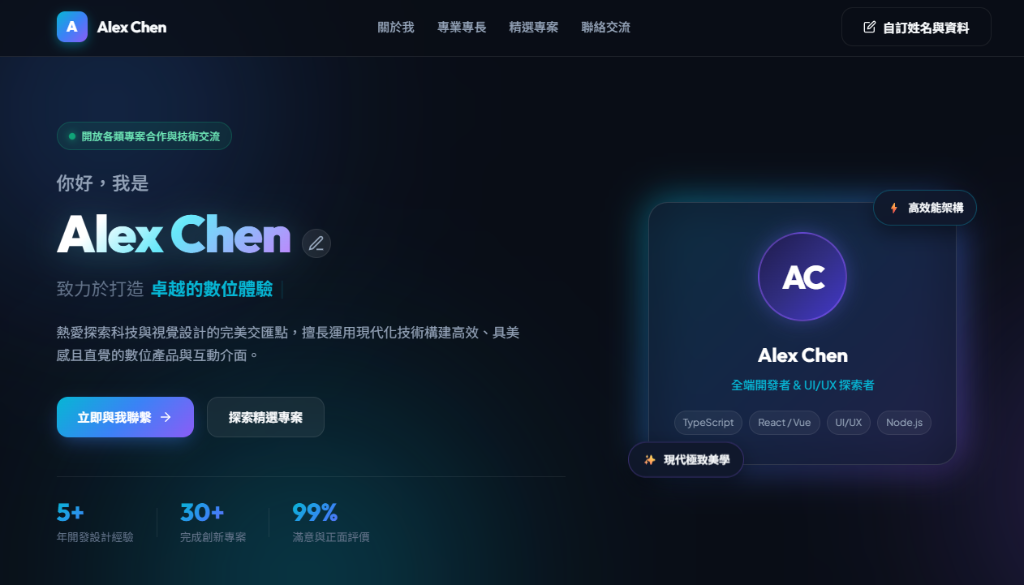
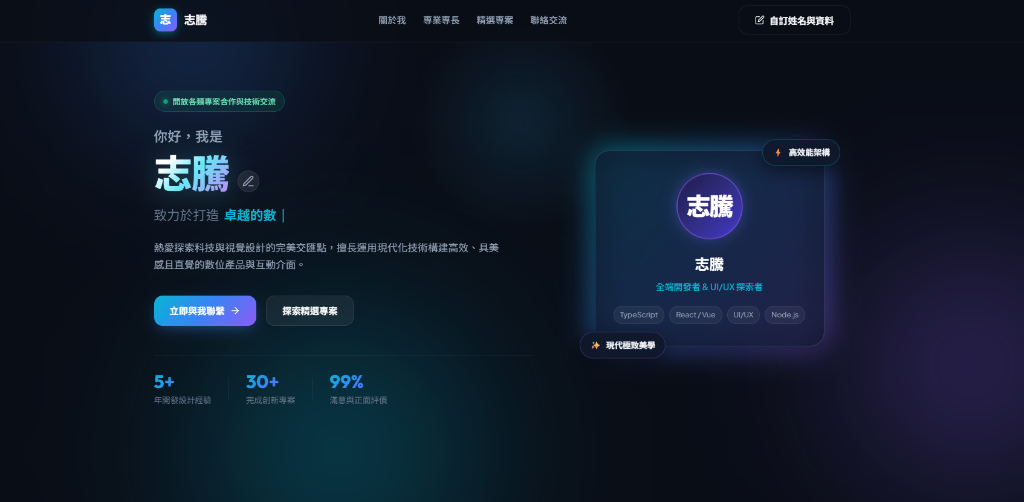
feat: update Live View screenshot and profile name to 志騰

diff --git a/index.html b/index.html
@@ -24,8 +24,8 @@
   <header class="site-header">
     <div class="container nav-wrapper">
       <a href="#" class="brand-logo" id="nav-brand">
-        <span class="brand-badge" id="brand-badge">A</span>
-        <span class="brand-name" id="nav-name">Alex Chen</span>
+        <span class="brand-badge" id="brand-badge">志</span>
+        <span class="brand-name" id="nav-name">志騰</span>
       </a>
 
       <nav class="nav-links">
@@ -61,7 +61,7 @@
 
           <!-- Main Name Display with Interactive Click-to-Edit -->
           <h1 class="hero-name" id="display-name" title="點擊即可快速修改姓名">
-            <span class="name-gradient">Alex Chen</span>
+            <span class="name-gradient">志騰</span>
             <button class="inline-edit-icon" id="inline-edit-btn" aria-label="修改姓名">
               <svg width="22" height="22" viewBox="0 0 24 24" fill="none" stroke="currentColor" stroke-width="2">
                 <path d="M12 20h9"></path>
@@ -119,10 +119,10 @@
             <div class="avatar-card">
               <div class="avatar-inner">
                 <div class="avatar-graphic" id="avatar-graphic">
-                  <div class="monogram-circle" id="monogram-circle">AC</div>
+                  <div class="monogram-circle" id="monogram-circle">志騰</div>
                 </div>
                 <div class="avatar-info">
-                  <h3 id="card-name">Alex Chen</h3>
+                  <h3 id="card-name">志騰</h3>
                   <p id="card-title">全端開發者 & 設計探索者</p>
                 </div>
                 <div class="tech-tags-mini">
@@ -326,7 +326,7 @@
               <div class="box-icon">✉</div>
               <div class="box-info">
                 <span class="box-label">電子信箱 (點擊複製)</span>
-                <span class="box-value" id="display-email">alex.chen.dev@example.com</span>
+                <span class="box-value" id="display-email">zhiteng.dev@example.com</span>
               </div>
               <button class="copy-btn" id="copy-email-btn" aria-label="複製信箱">
                 <svg width="18" height="18" viewBox="0 0 24 24" fill="none" stroke="currentColor" stroke-width="2">
@@ -362,7 +362,7 @@
   <!-- Footer -->
   <footer class="site-footer">
     <div class="container footer-container">
-      <p>&copy; <span id="current-year">2026</span> <strong id="footer-name">Alex Chen</strong>. All rights reserved.</p>
+      <p>&copy; <span id="current-year">2026</span> <strong id="footer-name">志騰</strong>. All rights reserved.</p>
       <p class="footer-sub">用心雕琢每處細節 · 打造卓越數位體驗</p>
     </div>
   </footer>

diff --git a/script.js b/script.js
@@ -6,9 +6,9 @@
 
 // Default Profile Data
 const DEFAULT_PROFILE = {
-  name: 'Alex Chen',
+  name: '志騰',
   title: '全端開發者 & UI/UX 探索者',
-  email: 'alex.chen.dev@example.com',
+  email: 'zhiteng.dev@example.com',
   bio: '熱愛探索科技與視覺設計的完美交匯點，擅長運用現代化技術構建高效、具美感且直覺的數位產品與互動介面。'
 };
 

diff --git a/README.md b/README.md
@@ -32,7 +32,7 @@
 目前於線上展示頁中，完整包含以下 7 大核心區塊與互動體驗：
 
 ### 1. 頂部導航列 (Navigation Bar)
-- **品牌 Logo 與 Monogram**：左側展示霓虹漸層徽章「A」與個人識別名稱「Alex Chen」。
+- **品牌 Logo 與 Monogram**：左側展示霓虹漸層徽章「志」與個人識別名稱「志騰」。
 - **平滑錨點選單**：包含「關於我」、「專業專長」、「精選專案」、「聯絡交流」之快速滑動跳轉連結。
 - **即時編輯按鈕**：右上角配置「**自訂姓名與資料**」快捷按鈕，隨時可開啟自訂彈窗。
 
@@ -41,10 +41,10 @@
 ### 2. 首頁核心形象展示區 (Hero Section)
 - **狀態標籤 (Status Pill)**：動態綠色呼吸燈徽章，標註「`開放各類專案合作與技術交流`」。
 - **姓名主標題 (Dynamic Hero Name)**：
-  - 超大字體搭配霓虹漸層光感「**Alex Chen**」。
+  - 超大字體搭配霓虹漸層光感「**志騰**」。
   - 旁附有**即時編輯鉛筆圖示**，使用者直接點擊姓名即可迅速跳出編輯視窗進行改名。
 - **動態打字機副標題 (Typewriter)**：
-  - 動態循環輪播：「`致力於打造 卓越的數位體驗 / 現代全端應用系統 / 精緻直ateur UI/UX / 高效能雲端架構`」。
+  - 動態循環輪播：「`致力於打造 卓越的數位體驗 / 現代全端應用系統 / 精緻直覺 UI/UX / 高效能雲端架構`」。
 - **個人簡述 (Bio)**：「熱愛探索科技與視覺設計的完美交匯點，擅長運用現代化技術構建高效、具美感且直覺的數位產品與互動介面。」
 - **雙主行動按鈕 (CTA)**：
   - 「**立即與我聯繫**」（霓虹漸層高光按鈕，點擊平滑滾動至聯絡區）。
@@ -54,7 +54,7 @@
   - **30+** 完成創新專案
   - **99%** 滿意與正面評價
 - **形象卡片與 3D 浮動徽章 (Visual Card)**：
-  - 發光雙環背景中的「**AC**」Monogram 專屬頭像圈。
+  - 發光雙環背景中的「**志騰**」專屬頭像圓圈。
   - 身分標籤：「`全端開發者 & UI/UX 探索者`」。
   - 精簡技術膠囊標籤：TypeScript、React / Vue、UI/UX、Node.js。
   - 漂浮動態徽章：`⚡ 高效能架構`、`✨ 現代極致美學`。
@@ -86,7 +86,7 @@
 ---
 
 ### 6. 聯絡交流與互動功能 (Get in Touch)
-- **一鍵複製信箱卡片**：展示 `alex.chen.dev@example.com`，點擊任一處或複製按鈕，即可自動複製到系統剪貼簿，並彈出優雅的綠色 Toast 通知。
+- **一鍵複製信箱卡片**：展示 `zhiteng.dev@example.com`，點擊任一處或複製按鈕，即可自動複製到系統剪貼簿，並彈出優雅的綠色 Toast 通知。
 - **官方社群與專案入口**：
   - [GitHub 專案儲存庫](https://github.com/CG3599/20260916-hw)
   - [Live Demo 線上展示頁](https://cg3599.github.io/20260916-hw/)
